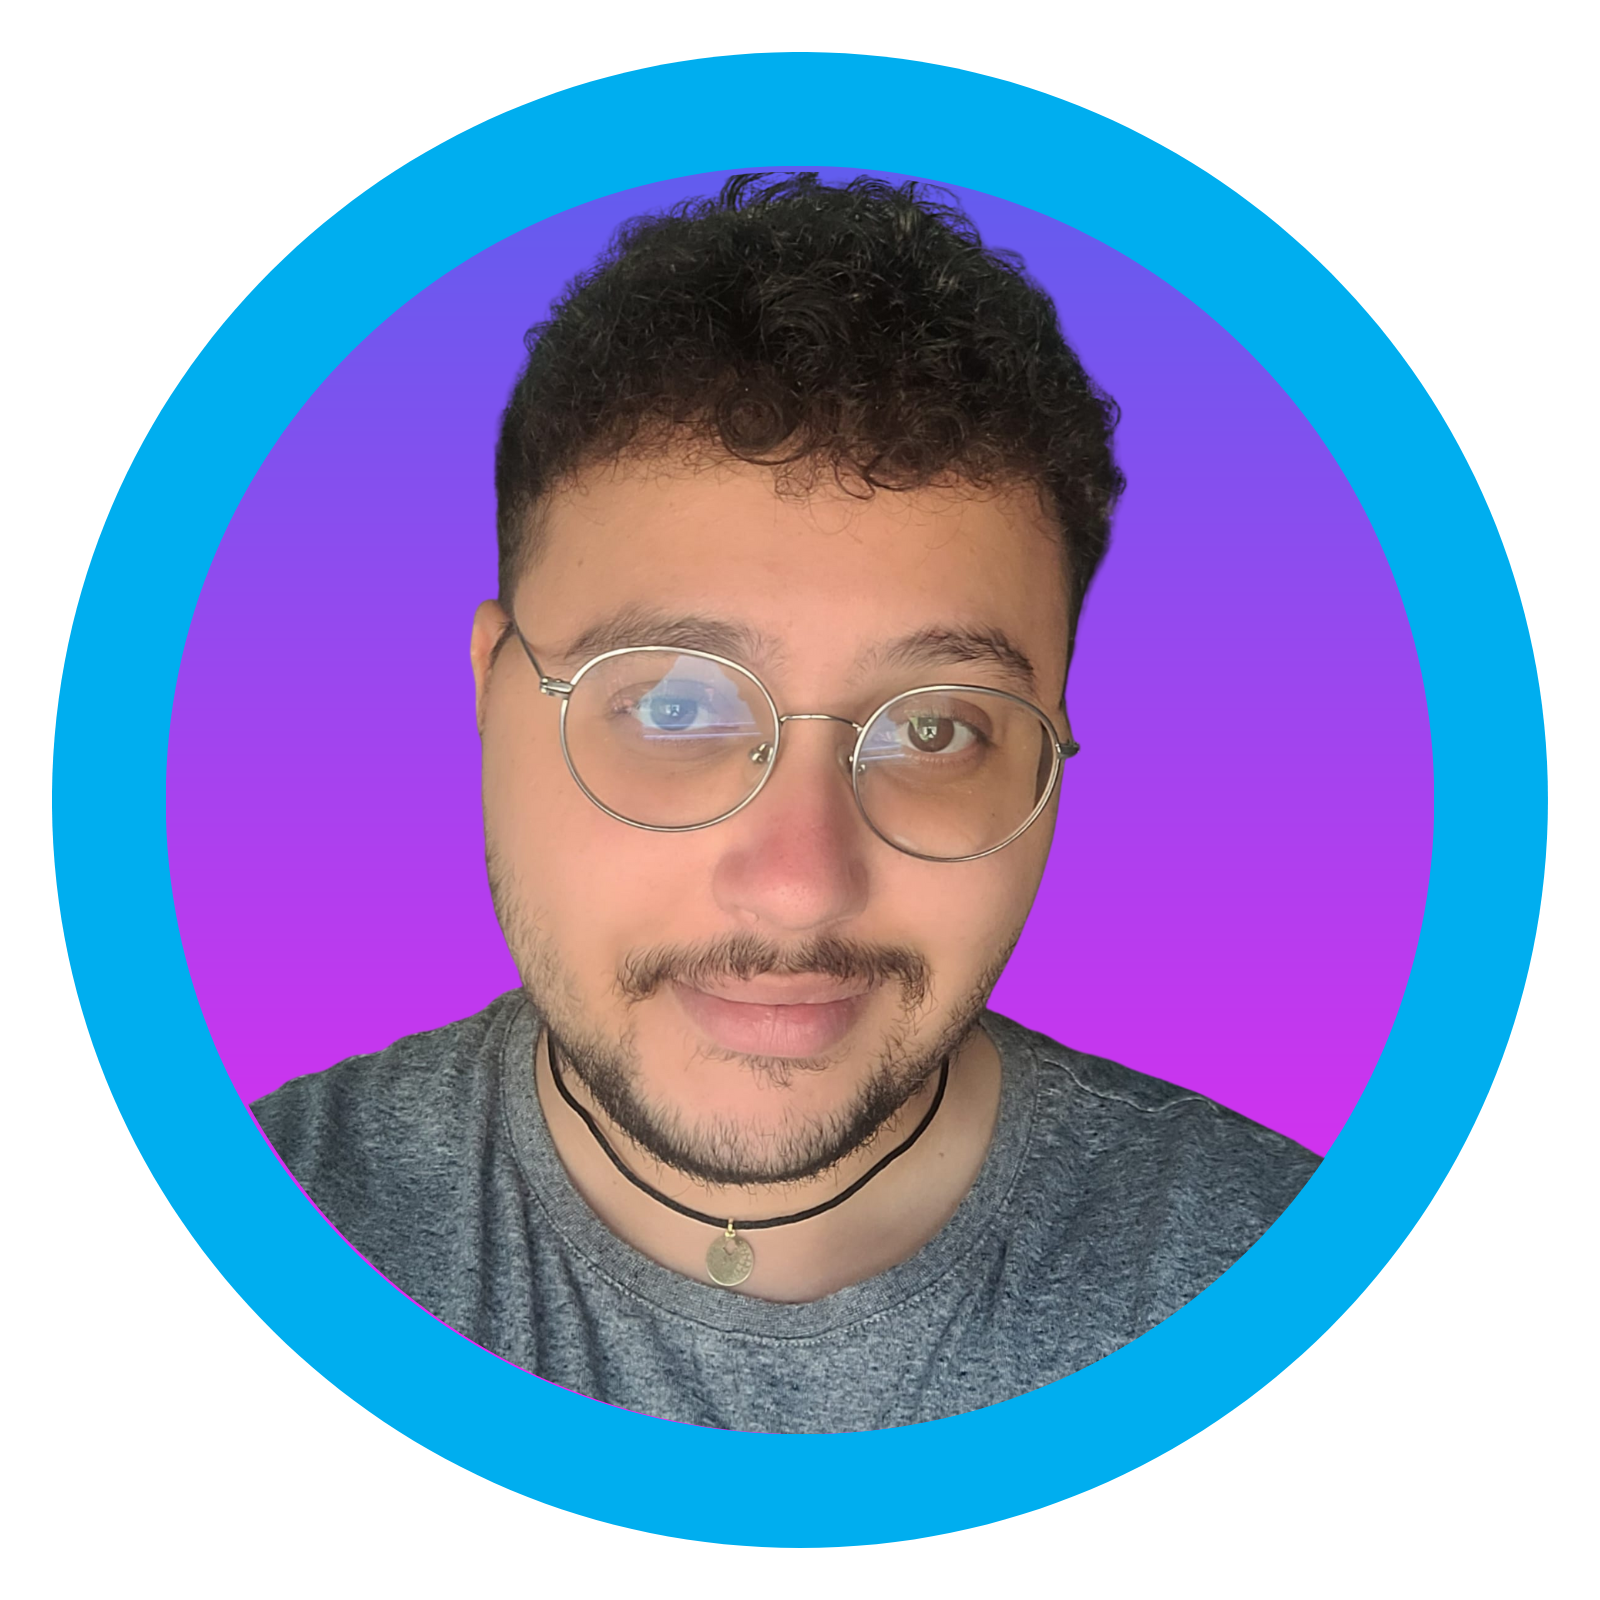
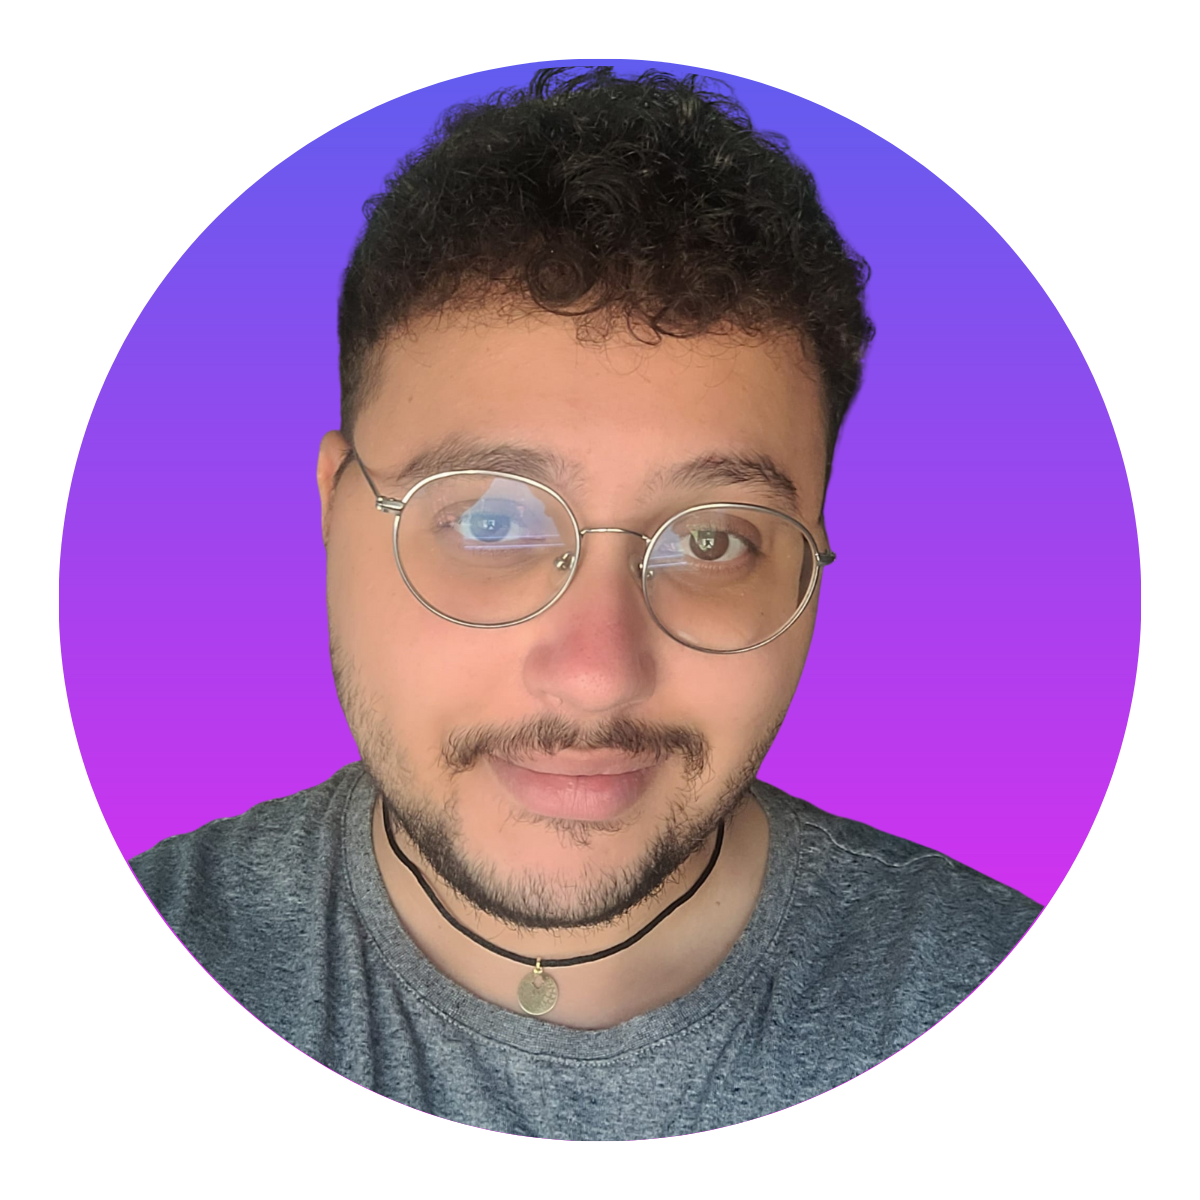
Better image using the center component

diff --git a/src/components/landingSection/rightLandingSection/avatar/CustomAvatar.tsx b/src/components/landingSection/rightLandingSection/avatar/CustomAvatar.tsx
@@ -1,17 +1,29 @@
 import React from 'react';
 import { useMediaQuery, useViewportSize } from '@mantine/hooks';
+import { Center, useMantineTheme } from '@mantine/core';
 import Image from 'next/image';
 
 export const CustomAvatar: React.FC = () => {
   const isMobile = useMediaQuery('(max-width: 768px)');
   const { width } = useViewportSize();
+  const theme = useMantineTheme();
+
   return (
-    <Image
-      src={'/assets/images/avatar.png'}
-      width={width * (isMobile ? 750 / 768 : 600 / 1920)}
-      height={width * (isMobile ? 750 / 768 : 600 / 1920)}
-      alt=""
-      priority
-    />
+    <Center
+      style={{
+        width: width * (isMobile ? 750 / 768 : 600 / 1920),
+        height: width * (isMobile ? 750 / 768 : 600 / 1920),
+        backgroundColor: theme.colors.blue[0],
+        borderRadius: '50%',
+      }}
+    >
+      <Image
+        src={'/assets/images/avatar.png'}
+        width={width * (isMobile ? 700 / 768 : 530 / 1920)}
+        height={width * (isMobile ? 700 / 768 : 530 / 1920)}
+        alt=""
+        priority
+      />
+    </Center>
   );
 };
